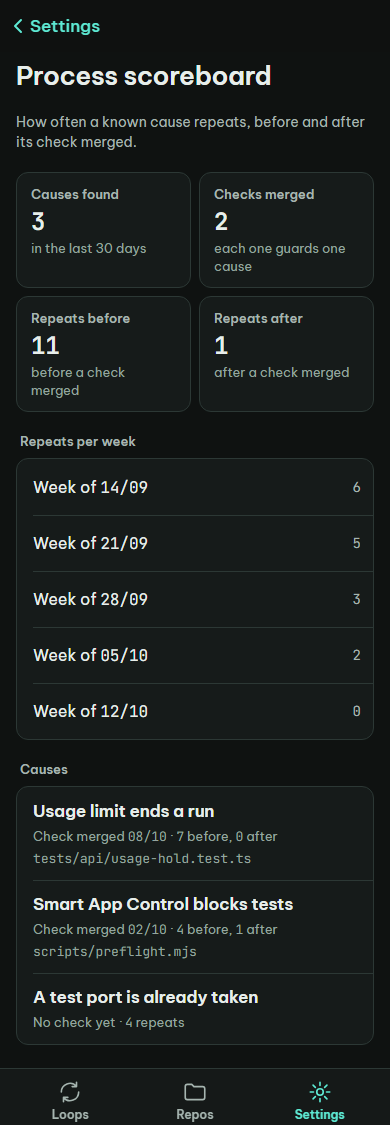
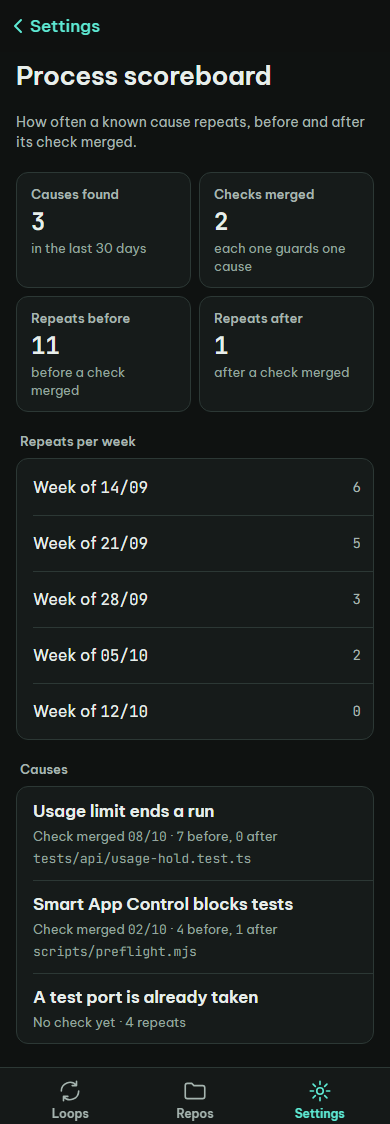
feat(process): scoreboard page tests, seed and re-shot preview shots (R9)

diff --git a/tests/e2e/scoreboard-page.spec.ts b/tests/e2e/scoreboard-page.spec.ts
@@ -1,7 +1,6 @@
 // E2E goal G15, the scoreboard on the real build: with a process review report in a repo, Settings shows the entry and it opens the page
 // that lists each cause; with no report the entry is not in Settings. All real: browser, build, Fastify, git, Postgres (test mode).
-import { mkdtempSync, realpathSync } from 'node:fs';
-import { tmpdir } from 'node:os';
+import { rmSync } from 'node:fs';
 import { join } from 'node:path';
 import { expect, test } from '@playwright/test';
 import { api, closeDb, db } from '../support/form-kit';
@@ -11,7 +10,7 @@ test.use({ timezoneId: 'Asia/Ho_Chi_Minh' });
 test.afterAll(closeDb);
 
 test('G15: with a report, Settings shows the scoreboard entry and it opens the page with one row for each cause', async ({ page, request }) => {
-  await seedScoreboard({ api: (method, path, body) => api(request, method, path, body) }, db());
+  await seedScoreboard({ api: (method, route, body) => api(request, method, route, body) }, db());
   await page.goto('/settings');
   const link = page.getByTestId('settings-score-link');
   await expect(link).toBeVisible();
@@ -25,10 +24,12 @@ test('G15: with a report, Settings shows the scoreboard entry and it opens the p
 });
 
 test('G15: with no report file, the scoreboard entry is not in Settings', async ({ page, request }) => {
-  expect((await api(request, 'POST', '/api/__test/reset')).status).toBe(204);
-  const dir = realpathSync(mkdtempSync(join(tmpdir(), 'lc-score-e2e-')));
-  expect((await api(request, 'POST', '/api/repos', { path: dir, name: 'no report' })).status).toBe(201);
+  const { path } = await seedScoreboard({ api: (method, route, body) => api(request, method, route, body) }, db());
   await page.goto('/settings');
+  await expect(page.getByTestId('settings-score-link')).toBeVisible();
+  // The same console with the report folder deleted: the entry is gone.
+  rmSync(join(path, 'reports'), { recursive: true, force: true });
+  await page.reload();
   await expect(page.getByTestId('settings-version')).toBeVisible();
   await expect(page.getByTestId('settings-score-link')).toHaveCount(0);
 });

diff --git a/design/APPROVED.md b/design/APPROVED.md
@@ -436,3 +436,10 @@ The owner approved the screens of the goal-driven loop (epic 217, task D2).
 - **Where:** the session chat of the coordinator of epic 217, on 2026-11-01. The same message carried the link of the private page "Goal Loop Screens", which shows the shots.
 - **What the approval covers:** the 11 states `probe-waiting`, `probe-held`, `probe-blocked`, `probe-complete`, `run-held`, `gate-queue`, `gate-failed`, `goal-rows`, `scoreboard`, `card-two-way` and `card-one-way`, with their phone twins, light and dark. That is 44 shots in [`ds/preview/shots/`](ds/preview/shots/). It also covers the new rows of the Statuses table and the Vietnamese words of the 19 states. Task D1 made them in merge commit d219690 (`feat(design): status rows and preview states of the goal-driven loop (PR 286)`).
 - **What it unblocks:** tasks P15, K12, T6, R9 and W7 build against these shots.
+
+## the scoreboard shots re-shot from the preview as it is today (task R9), 2026-11-01
+
+Task R9 built the scoreboard page and compared it with the approved shots. The app matched the preview exactly (0 pixels differ in 2 of 4 shots; the phone pair differed only because the reference was 1 px taller). The 4 approved shots did not match the preview that draws them: from the same `design/ds/preview/data.js` and `preview.js`, today's preview drew the last cause row ("No check yet · 4 repeats") 1 px lower in the stored shot, with a narrower text, so each page was 1 px taller (1004 and 1125 px against 1003 and 1124 px). Three other states re-shot on the same machine were pixel-identical to their stored shots, so the stored scoreboard shots were stale and the data and the layout were not changed.
+
+- **What changed:** only these 4 images: `scoreboard-light`, `scoreboard-dark`, `phone-scoreboard-light` and `phone-scoreboard-dark` in [`ds/preview/shots/`](ds/preview/shots/), re-shot with `npm run design:shots -- --only scoreboard,phone-scoreboard --compress`. No class, token, text or sample number changed.
+- **Decision:** by the standing rule of the epic (the app and the preview differ in the sample only: the preview is re-shot, and the owner is not asked), the preview shots follow the code that draws them.
